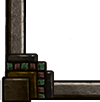
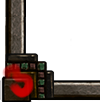
Add the skull highlight

Changed region(s): [[0.03, 0.6176, 0.36, 0.9706]]

diff --git a/gui_elem.cpp b/gui_elem.cpp
@@ -99,6 +99,7 @@ PGuiElem GuiElem::sprite(Texture& tex, Alignment align, bool vFlip, bool hFlip, 
   return PGuiElem(new DrawCustom(
         [&tex, align, offset, alpha, vFlip, hFlip] (Renderer& r, Rectangle bounds) {
           Vec2 size(tex.getSize().x, tex.getSize().y);
+          Optional<Vec2> stretchSize;
           Vec2 origin;
           Vec2 pos;
           switch (align) {
@@ -149,16 +150,29 @@ PGuiElem GuiElem::sprite(Texture& tex, Alignment align, bool vFlip, bool hFlip, 
               pos = (bounds.getTopLeft() + bounds.getTopRight()) / 2 - Vec2(size.x / 2, 0) + offset;
               size = Vec2(size.x, bounds.getH() - 2 * offset.y);
               break;
+            case Alignment::LEFT_STRETCHED:
+              stretchSize = size * (double(bounds.getH()) / size.y);
+              pos = (bounds.getTopLeft() + bounds.getBottomLeft()) / 2 - Vec2(0, stretchSize->y / 2) + offset;
+              break;
+            case Alignment::RIGHT_STRETCHED:
+              stretchSize = size * (double(bounds.getH()) / size.y);
+              pos = (bounds.getTopRight() + bounds.getBottomRight()) / 2
+                  - Vec2(stretchSize->x, stretchSize->y / 2) + offset;
+              break;
           }
           if (vFlip) {
+            if (stretchSize)
+              stretchSize->y *= -1;
             size = Vec2(size.x, -size.y);
             origin = Vec2(0, -size.y);
           }
           if (hFlip) {
+            if (stretchSize)
+              stretchSize->x *= -1;
             size = Vec2(-size.x, size.y);
             origin = Vec2(-size.x, origin.y);
           }
-          r.drawSprite(pos, origin, size, tex, Color(255, 255, 255, alpha * 255));
+          r.drawSprite(pos, origin, size, tex, Color(255, 255, 255, alpha * 255), stretchSize);
         }));
 }
 
@@ -200,25 +214,22 @@ PGuiElem GuiElem::labelUnicode(const String& s, Color color, int size, Renderer:
 
 class MainMenuLabel : public GuiElem {
   public:
-  MainMenuLabel(const string& s, Color c) : text(s), color(c) {}
+  MainMenuLabel(const string& s, Color c, double vPad) : text(s), color(c), vPadding(vPad) {}
 
   virtual void render(Renderer& renderer) override {
-    int size = getBounds().getH();
-    renderer.drawText(color, getBounds().middle().x, getBounds().getPY() - size / 4, text, true, size);
-  }
-
-  virtual void onMouseMove(Vec2 pos) override {
-    over = pos.inRectangle(getBounds());
+    int size = (1.0 - 2 * vPadding) * getBounds().getH();
+    double height = getBounds().getPY() + vPadding * getBounds().getH();
+    renderer.drawText(color, getBounds().middle().x, height - size / 4, text, true, size);
   }
 
   private:
   string text;
   Color color;
-  bool over = false;
+  double vPadding;
 };
 
-PGuiElem GuiElem::mainMenuLabel(const string& s, Color c) {
-  return PGuiElem(new MainMenuLabel(s, c));
+PGuiElem GuiElem::mainMenuLabel(const string& s, double vPadding, Color c) {
+  return PGuiElem(new MainMenuLabel(s, c, vPadding));
 }
 
 class GuiLayout : public GuiElem {
@@ -867,6 +878,7 @@ Texture& get(TexId id) {
     m[WINDOW_VERT_BAR].loadFromFile("ui/vertibarmsg1.png");
     m[WINDOW_VERT_BAR].setRepeated(true);
     m[MAIN_MENU_HIGHLIGHT].loadFromFile("ui/menu_highlight.png");
+    m[MAIN_MENU_HIGHLIGHT].setSmooth(true);
   }
   return m[id];
 }
@@ -963,11 +975,13 @@ PGuiElem GuiElem::background(Color c) {
 }
 
 PGuiElem GuiElem::highlight(Color c) {
-  return stack(rectangle(c), repeatedPattern(get(BACKGROUND_PATTERN)));
+  return margins(sprite(get(MAIN_MENU_HIGHLIGHT), Alignment::LEFT_STRETCHED, false, true), -25, 0, 0, 0);
 }
 
 PGuiElem GuiElem::mainMenuHighlight() {
-  return spriteFitVert(get(MAIN_MENU_HIGHLIGHT), 0.35, 0.25);
+  return stack(
+      sprite(get(MAIN_MENU_HIGHLIGHT), Alignment::LEFT_STRETCHED, false, true),
+      sprite(get(MAIN_MENU_HIGHLIGHT), Alignment::RIGHT_STRETCHED));
 }
 
 PGuiElem GuiElem::border2(PGuiElem content) {

diff --git a/window_view.cpp b/window_view.cpp
@@ -259,12 +259,14 @@ void WindowView::displaySplash(const ProgressMeter& meter, View::SplashType type
     int t0 = Clock::get().getRealMillis();
     int mouthMillis = 400;
     while (!splashDone) {
-      if (tilesOk)
+      if (tilesOk) {
         drawMenuBackground(meter.getProgress(), min(1.0, double(Clock::get().getRealMillis() - t0) / mouthMillis));
-      else
+        renderer.drawText(colors[ColorId::WHITE], renderer.getWidth() / 2, renderer.getHeight() * 0.6, text, true);
+      } else {
         renderer.drawImage((renderer.getWidth() - loadingSplash.getSize().x) / 2,
             (renderer.getHeight() - loadingSplash.getSize().y) / 2, loadingSplash);
-      renderer.drawText(colors[ColorId::WHITE], renderer.getWidth() / 2, renderer.getHeight() * 0.5, text, true);
+        renderer.drawText(colors[ColorId::WHITE], renderer.getWidth() / 2, renderer.getHeight() - 60, text, true);
+      }
       renderer.drawAndClearBuffer();
       sf::sleep(sf::milliseconds(30));
       Event event;
@@ -636,7 +638,7 @@ Rectangle WindowView::getMenuPosition(View::MenuType type) {
       ySpacing = (renderer.getHeight() - windowHeight) / 2;
       break;
     case View::MAIN_MENU:
-      windowWidth = renderer.getWidth() / 5;
+      windowWidth = 0.41 * renderer.getHeight();
       ySpacing = renderer.getHeight() / 3;
       break;
     default: ySpacing = 100; break;
@@ -681,12 +683,12 @@ Optional<int> WindowView::chooseFromListInternal(const string& title, const vect
   PGuiElem stuff = drawListGui(title, options, menuType, contentHeight, &index, &choice);
   PGuiElem dismissBut = GuiElem::margins(GuiElem::stack(makeVec<PGuiElem>(
         GuiElem::button([&](){ choice = -100; }),
-        GuiElem::mouseHighlight(GuiElem::highlight(GuiElem::foreground1), count, &index),
+        GuiElem::mouseHighlight(GuiElem::mainMenuHighlight(), count, &index),
         GuiElem::centerHoriz(
             GuiElem::label("Dismiss", colors[ColorId::WHITE]), renderer.getTextLength("Dismiss")))), 0, 5, 0, 0);
   if (menuType != MAIN_MENU) {
     stuff = GuiElem::scrollable(std::move(stuff), contentHeight, scrollPos);
-    stuff = GuiElem::margin(GuiElem::centerHoriz(std::move(dismissBut), 200),
+    stuff = GuiElem::margin(GuiElem::centerHoriz(std::move(dismissBut), renderer.getTextLength("Dismiss") + 100),
         std::move(stuff), 30, GuiElem::BOTTOM);
     stuff = GuiElem::window(std::move(stuff));
   }
@@ -779,7 +781,7 @@ static vector<PGuiElem> getMultiLine(const string& text, Color color, View::Menu
     if (menuType != View::MenuType::MAIN_MENU)
       ret.push_back(GuiElem::label(s, color));
     else
-      ret.push_back(GuiElem::centerHoriz(GuiElem::mainMenuLabel(s, color), renderer.getTextLength(s)));
+      ret.push_back(GuiElem::mainMenuLabel(s, 0.15, color));
 
   }
   return ret;
@@ -822,7 +824,7 @@ PGuiElem WindowView::drawListGui(const string& title, const vector<ListElem>& op
       line = GuiElem::verticalList(std::move(label1), lineHeight, 0);
     else
       line = std::move(getOnlyElement(label1));
-    lines.push_back(GuiElem::margins(std::move(line), 10, 3, 0, 0));
+    lines.push_back(GuiElem::margins(std::move(line), 10, 3, 10, 0));
     if (highlight && options[i].getMod() == View::NORMAL) {
       lines.back() = GuiElem::stack(makeVec<PGuiElem>(
             GuiElem::button([=]() { *choice = numActive; }),
@@ -835,7 +837,7 @@ PGuiElem WindowView::drawListGui(const string& title, const vector<ListElem>& op
   if (menuType != MAIN_MENU)
     return GuiElem::verticalList(std::move(lines), heights, 0);
   else
-    return GuiElem::verticalListFit(std::move(lines), 0.5);
+    return GuiElem::verticalListFit(std::move(lines), 0.0);
 }
 
 void WindowView::switchZoom() {

diff --git a/gui_elem.h b/gui_elem.h
@@ -59,7 +59,7 @@ class GuiElem {
   static PGuiElem margins(PGuiElem content, int left, int top, int right, int bottom);
   static PGuiElem label(const string&, Color = colors[ColorId::WHITE], char hotkey = 0);
   static PGuiElem label(const string&, int size, Color = colors[ColorId::WHITE]);
-  static PGuiElem mainMenuLabel(const string&, Color = colors[ColorId::WHITE]);
+  static PGuiElem mainMenuLabel(const string&, double vPadding, Color = colors[ColorId::WHITE]);
   static PGuiElem labelUnicode(const String&, Color, int size = Renderer::textSize,
       Renderer::FontId = Renderer::SYMBOL_FONT);
   static PGuiElem viewObject(const ViewObject& object, bool useSprites);
@@ -75,7 +75,7 @@ class GuiElem {
   static PGuiElem conditional(PGuiElem elem, function<bool(GuiElem*)> cond);
   static PGuiElem conditional(PGuiElem elem, PGuiElem alter, function<bool(GuiElem*)> cond);
   enum class Alignment { TOP, LEFT, BOTTOM, RIGHT, TOP_LEFT, TOP_RIGHT, BOTTOM_LEFT, BOTTOM_RIGHT, CENTER,
-      TOP_CENTER, LEFT_CENTER, BOTTOM_CENTER, RIGHT_CENTER, VERTICAL_CENTER};
+      TOP_CENTER, LEFT_CENTER, BOTTOM_CENTER, RIGHT_CENTER, VERTICAL_CENTER, LEFT_STRETCHED, RIGHT_STRETCHED};
   static PGuiElem sprite(Texture&, Alignment, bool vFlip = false, bool hFlip = false,
       Vec2 offset = Vec2(0, 0), double alpha = 1);
   static PGuiElem spriteFitVert(Texture&, double topMargin, double bottomMargin);

diff --git a/renderer.cpp b/renderer.cpp
@@ -103,13 +103,19 @@ void Renderer::drawImage(int px, int py, int kx, int ky, const Image& image, dou
   t.loadFromImage(image);
   Sprite s(t, sf::IntRect(0, 0, (kx - px) / scale, (ky - py) / scale));
   s.setPosition(px, py);
-  if (scale != 1)
+  if (scale != 1) {
     s.setScale(scale, scale);
+    t.setSmooth(true);
+  }
   display->draw(s);
 }
 
-void Renderer::drawSprite(Vec2 pos, Vec2 spos, Vec2 size, const Texture& t, Optional<Color> color) {
-  drawSprite(pos.x, pos.y, spos.x, spos.y, size.x, size.y, t, -1, -1, color);
+void Renderer::drawSprite(Vec2 pos, Vec2 spos, Vec2 size, const Texture& t, Optional<Color> color,
+    Optional<Vec2> stretchSize) {
+  if (stretchSize)
+    drawSprite(pos.x, pos.y, spos.x, spos.y, size.x, size.y, t, stretchSize->x, stretchSize->y, color);
+  else
+    drawSprite(pos.x, pos.y, spos.x, spos.y, size.x, size.y, t, -1, -1, color);
 }
 
 void Renderer::drawSprite(Vec2 pos, Vec2 stretchSize, const Texture& t) {

diff --git a/renderer.h b/renderer.h
@@ -89,7 +89,8 @@ class Renderer {
   void drawImage(int px, int py, const Image& image, double scale = 1);
   void drawImage(int px, int py, int kx, int ky, const Image& image, double scale = 1);
   void drawImage(Rectangle, const Image& image, double scale = 1);
-  void drawSprite(Vec2 pos, Vec2 spos, Vec2 size, const Texture& t, Optional<Color> color = Nothing());
+  void drawSprite(Vec2 pos, Vec2 spos, Vec2 size, const Texture& t, Optional<Color> color = Nothing(),
+      Optional<Vec2> stretchSize = Nothing());
   void drawSprite(int x, int y, int px, int py, int w, int h, const Texture& t, int dw = -1, int dh = -1,
       Optional<Color> color = Nothing());
   void drawSprite(int x, int y, SpriteId, Optional<Color> color = Nothing());

diff --git a/player_control.cpp b/player_control.cpp
@@ -675,7 +675,7 @@ Optional<pair<ViewObject, int>> PlayerControl::getCostObj(CostInfo cost) const {
 string PlayerControl::getMinionName(CreatureId id) const {
   static map<CreatureId, string> names;
   if (!names.count(id))
-    names[id] = CreatureFactory::fromId(id, nullptr)->getName().the();
+    names[id] = CreatureFactory::fromId(id, nullptr)->getName().bare();
   return names.at(id);
 }
 
